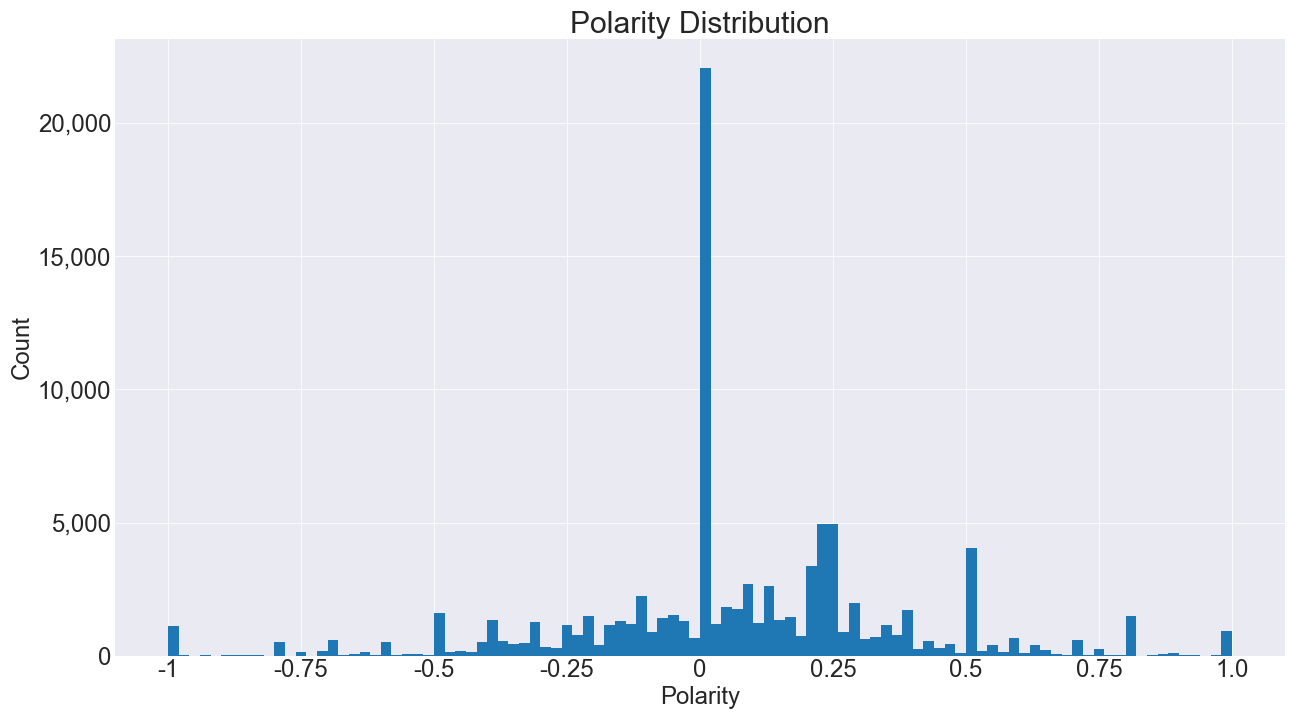
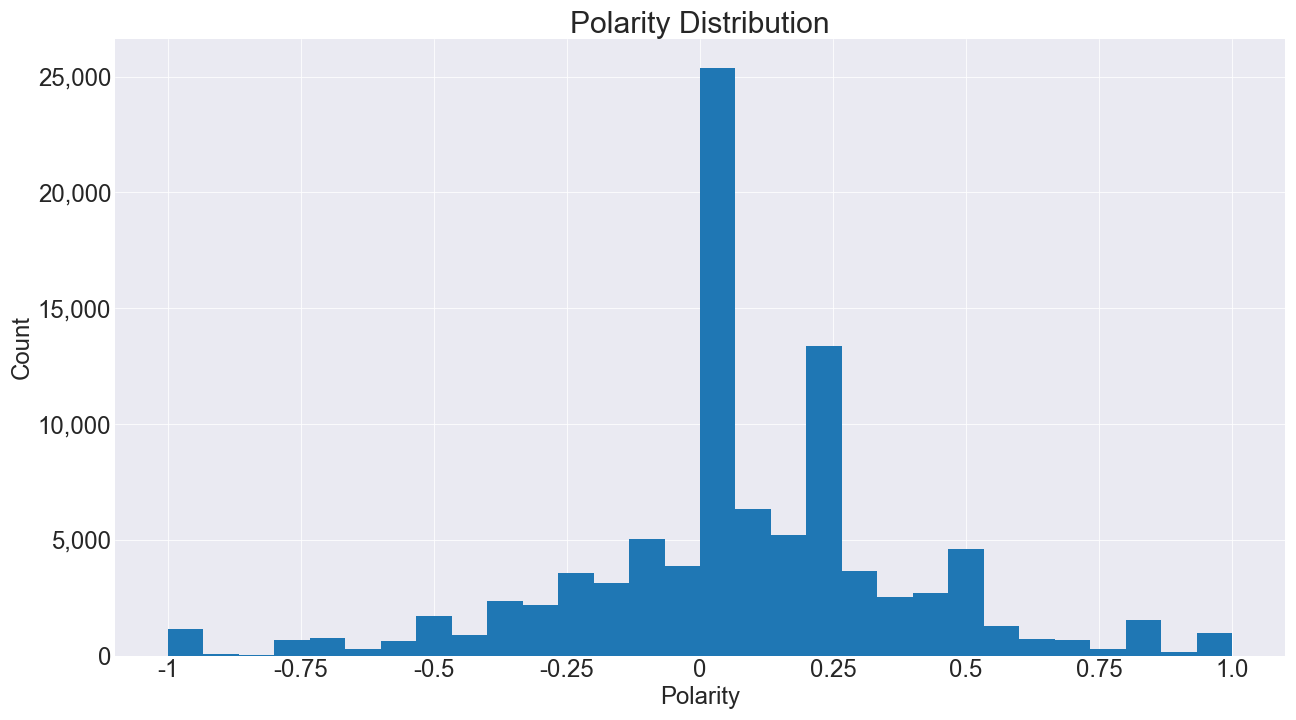
updated charts

diff --git a/README.md b/README.md
@@ -15,20 +15,27 @@ We first examined general attributes of the data, such as the distribution of tw
 Some of the interesting things we noticed were:
 
 *_"Trump" was mentioned almost twice as often as "Biden", though "Joe" was mentioned nearly twice as often as "Donald"_*
-![Name mentions](/images/name_mentions.png)
+
+<img src="images/name_mentions.png" height="420">
 
 *_Mean tweet length across Twitter is 33 characters.<sup>[1](https://slate.com/technology/2018/10/twitter-tweet-character-limits-280-140-effect.html)</sup> Mean tweet length for our dataset was 61 characters_*
-![Tweet length distribution](/images/tweet_len_dist.png)
+
+<img src="images/tweet_len_dist.png" height="420">
 
 *_Retweets comprised 69% of our selected dataset_*
-![Retweets vs original content](/images/retweets.png)
 
-*_Subjectivity & Polarity_*
+<img src="images/retweets.png" height="420">
+
+### Subjectivity & Polarity
+
 When we examined the overall sentiment of the tweets, we noticed that they tended to skew on the more positive side, with a majority being more objective (we dropped all paired 0.0 values, as we couldn't rule them out as being anomolies).
 
-![Retweets vs original content](/images/subj_dist.png)
+<img src="images/subj_dist.png" height="420">
 
-![Retweets vs original content](/images/polarity_dist.png)
+
+<img src="images/polarity_dist.png" height="420">
+**Higher polarity value is a more positive sentiment**
+
 
 ## Baseline Models and Final Model Results
 
